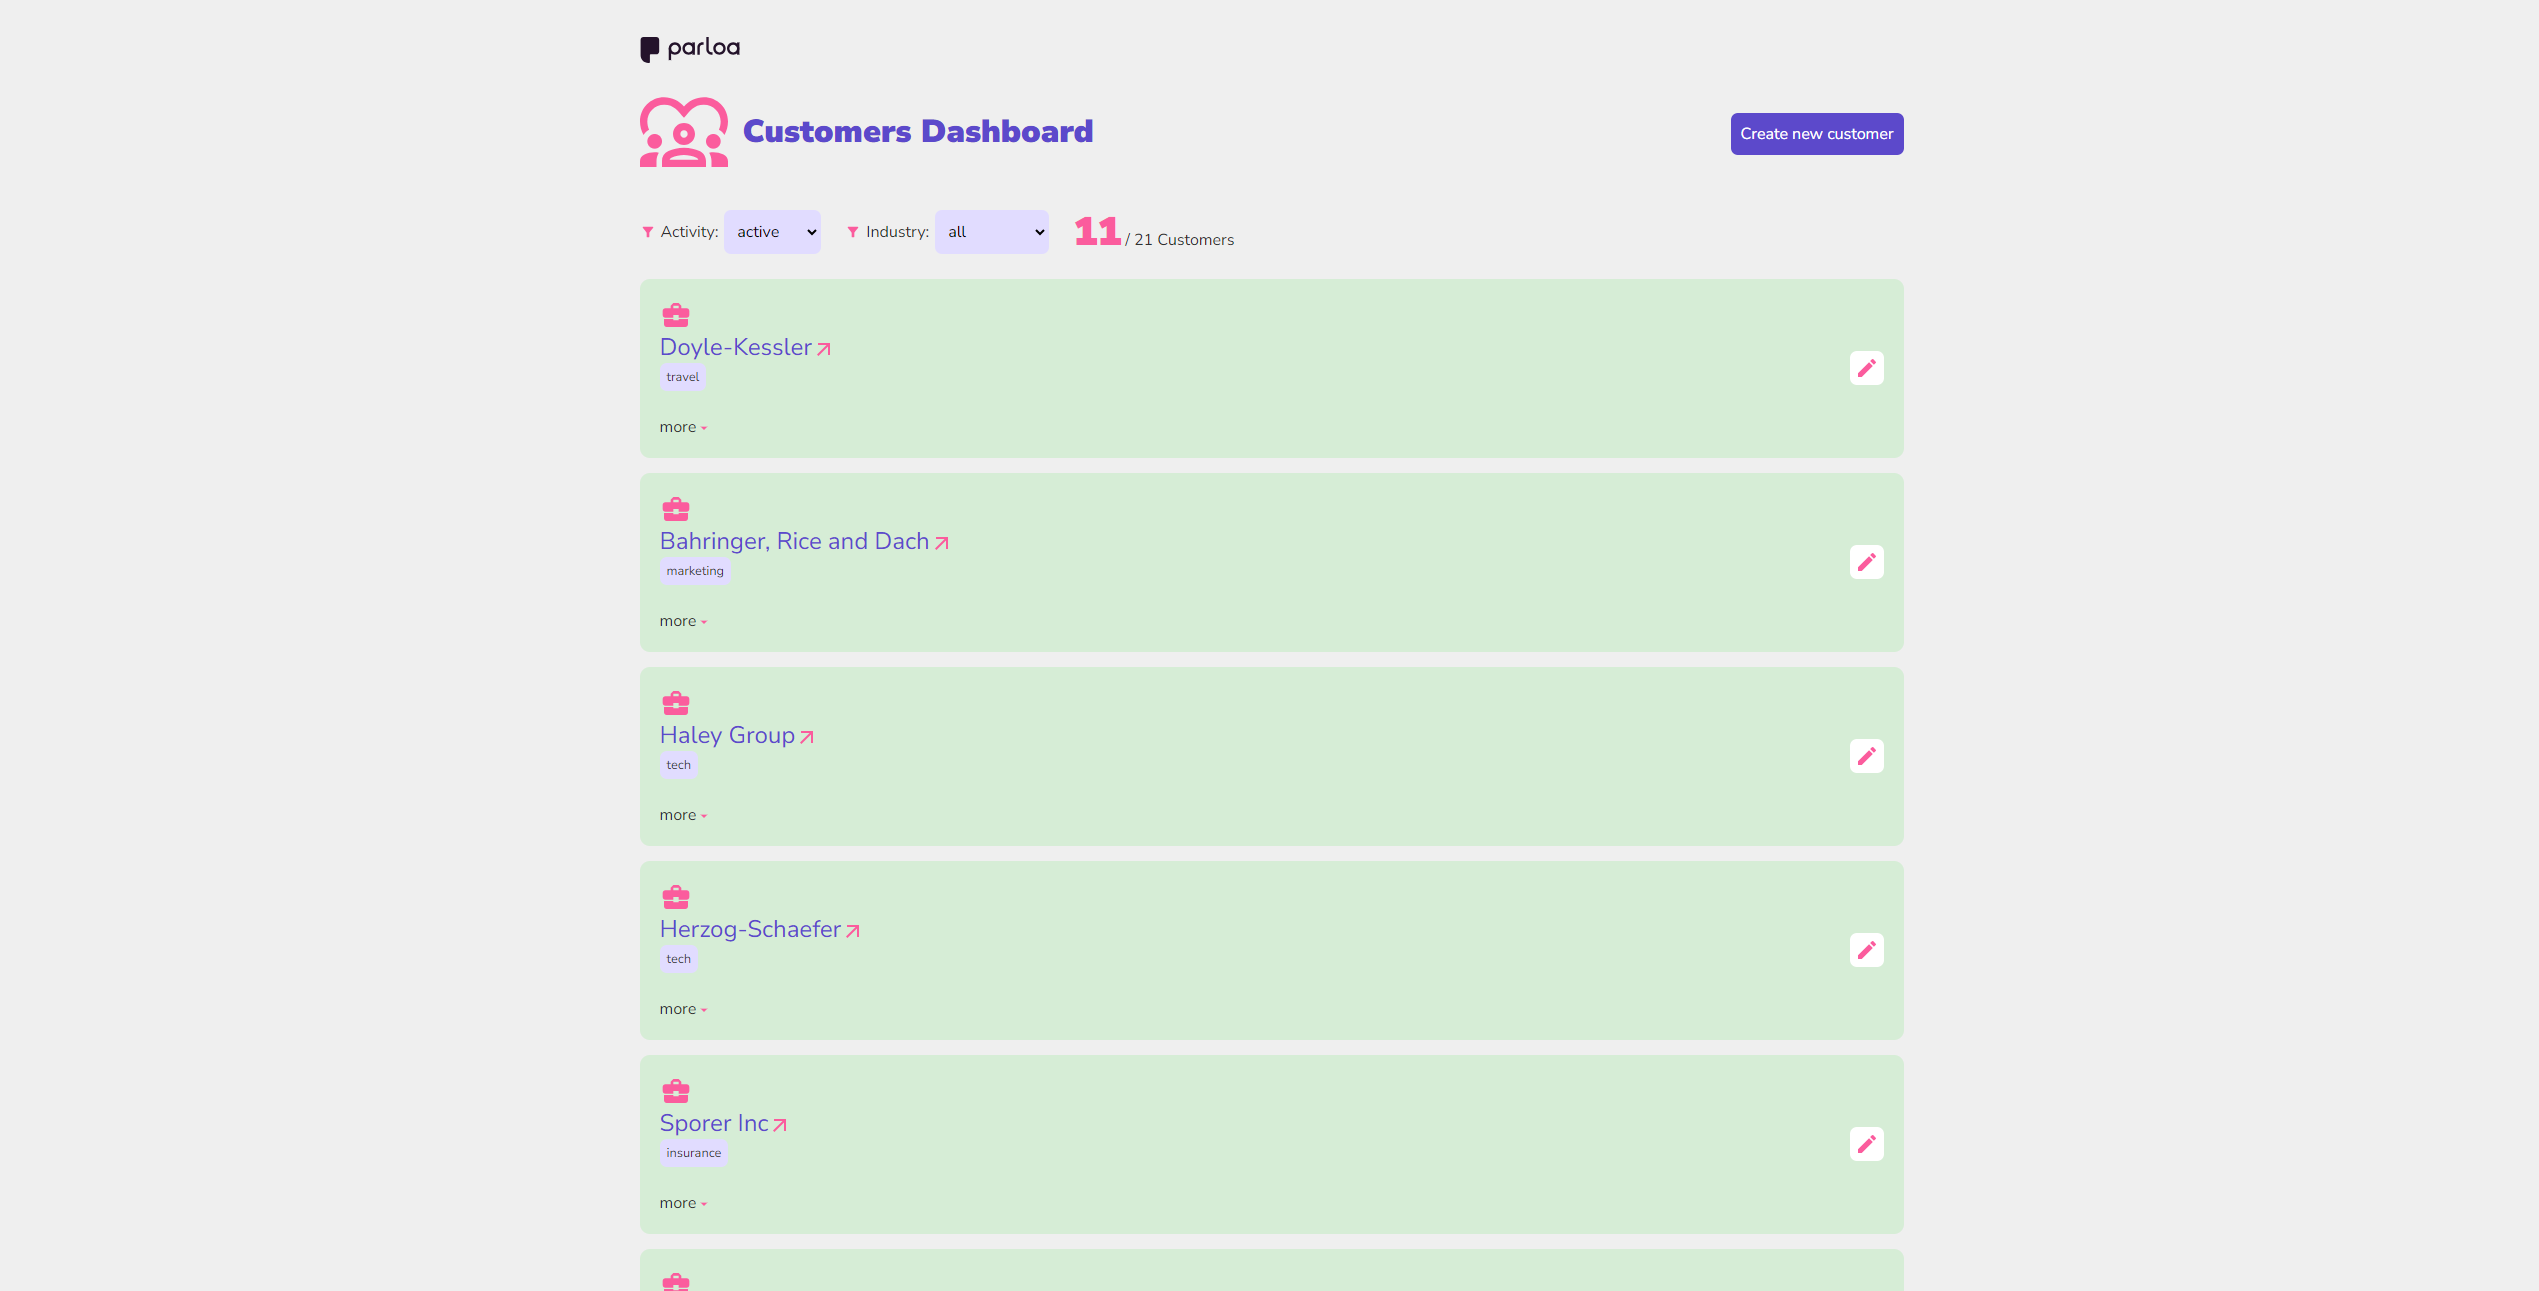
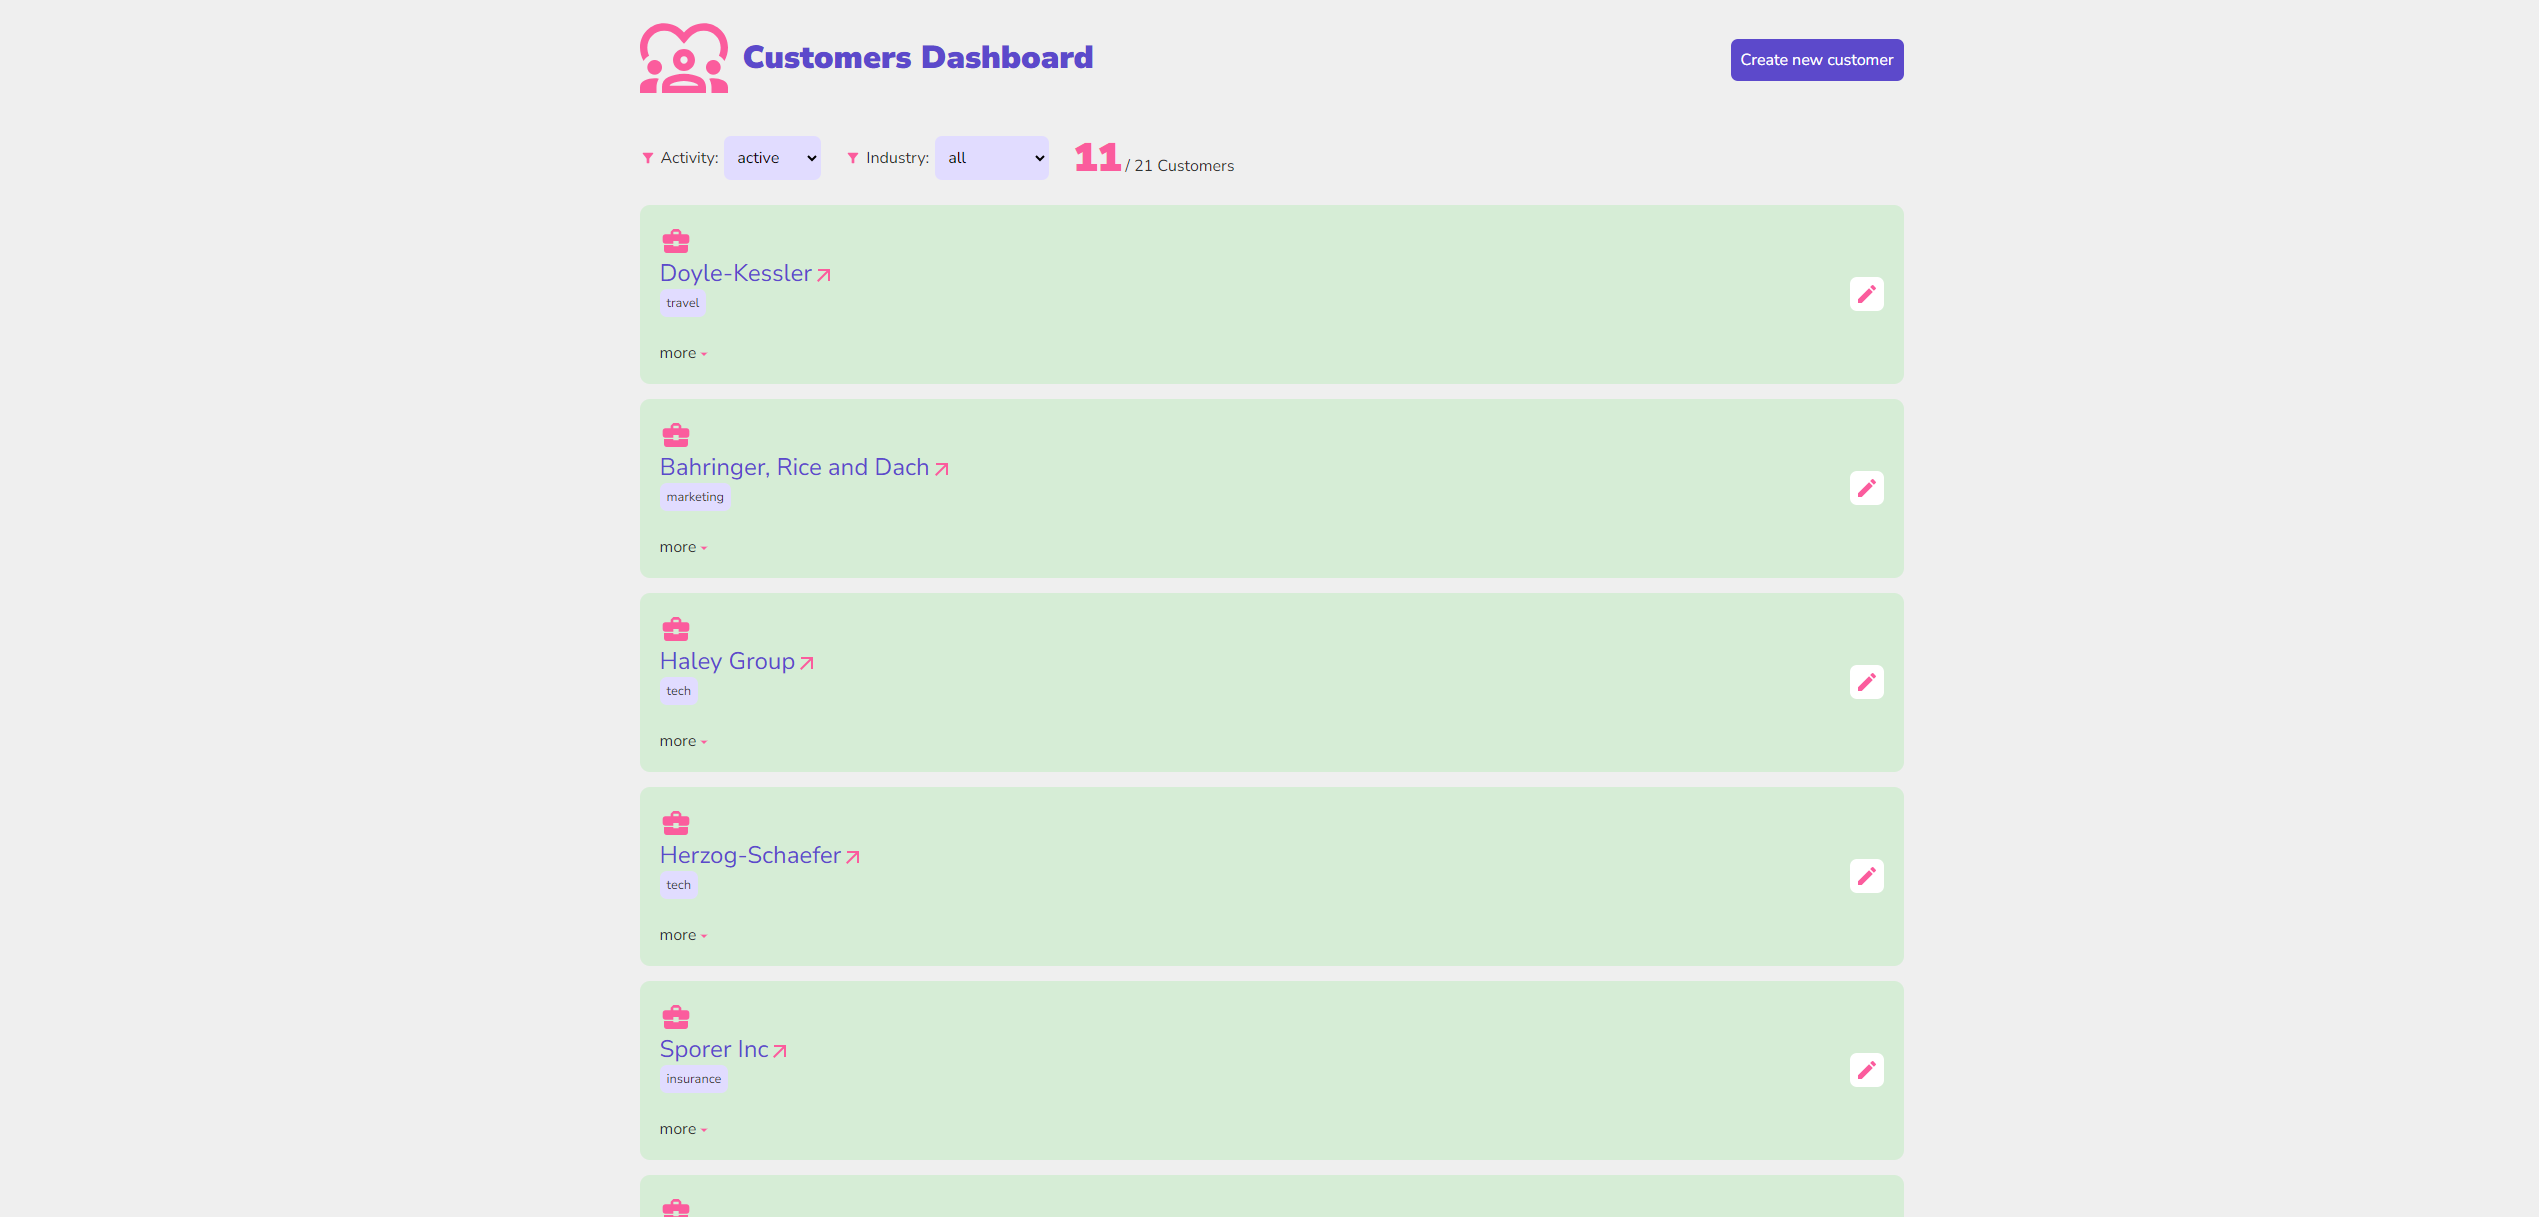
refactor
refactor

Changed region(s): [[0.2489, 0.0, 0.7468, 0.968], [0.6845, 0.0312, 0.7468, 0.1249]]

diff --git a/src/components/BrandLogo/BrandLogo.tsx b/src/components/BrandLogo/BrandLogo.tsx
@@ -3,7 +3,7 @@ const BrandLogo = () => (
     width="100px"
     height="26px"
     loading="lazy"
-    // src="/parloa-customers-dashboard/logo.svg" // needed for deployment
+    // src="/customers-dashboard/logo.svg" // needed for deployment
     src="/logo.svg"
     alt="brand-logo"
   />

diff --git a/index.html b/index.html
@@ -10,7 +10,7 @@
       href="https://fonts.googleapis.com/css2?family=Nunito+Sans:wght@200;400;1000&display=swap"
       rel="stylesheet"
     />
-    <title>Parloa - Customers Dashboard</title>
+    <title>Customers Dashboard</title>
   </head>
   <body>
     <div id="root"></div>

diff --git a/vite.config.ts b/vite.config.ts
@@ -3,6 +3,6 @@ import react from "@vitejs/plugin-react";
 
 // https://vitejs.dev/config/
 export default defineConfig({
-  // base: "/parloa-customers-dashboard/", // needed for deployment
+  // base: "/customers-dashboard/", // needed for deployment
   plugins: [react()],
 });

diff --git a/src/router.tsx b/src/router.tsx
@@ -34,7 +34,7 @@ const router = createBrowserRouter(
   // needed for deployment
   // ,
   // {
-  //   basename: "/parloa-customers-dashboard",
+  //   basename: "/customers-dashboard",
   // }
 );
 

diff --git a/README.md b/README.md
@@ -1,5 +1,7 @@
 ![screenshot](screenshot.png)
 
+Demo: https://arijitpatra.in/customers-dashboard
+
 # React + TypeScript + Vite
 
 This template provides a minimal setup to get React working in Vite with HMR and some ESLint rules.
